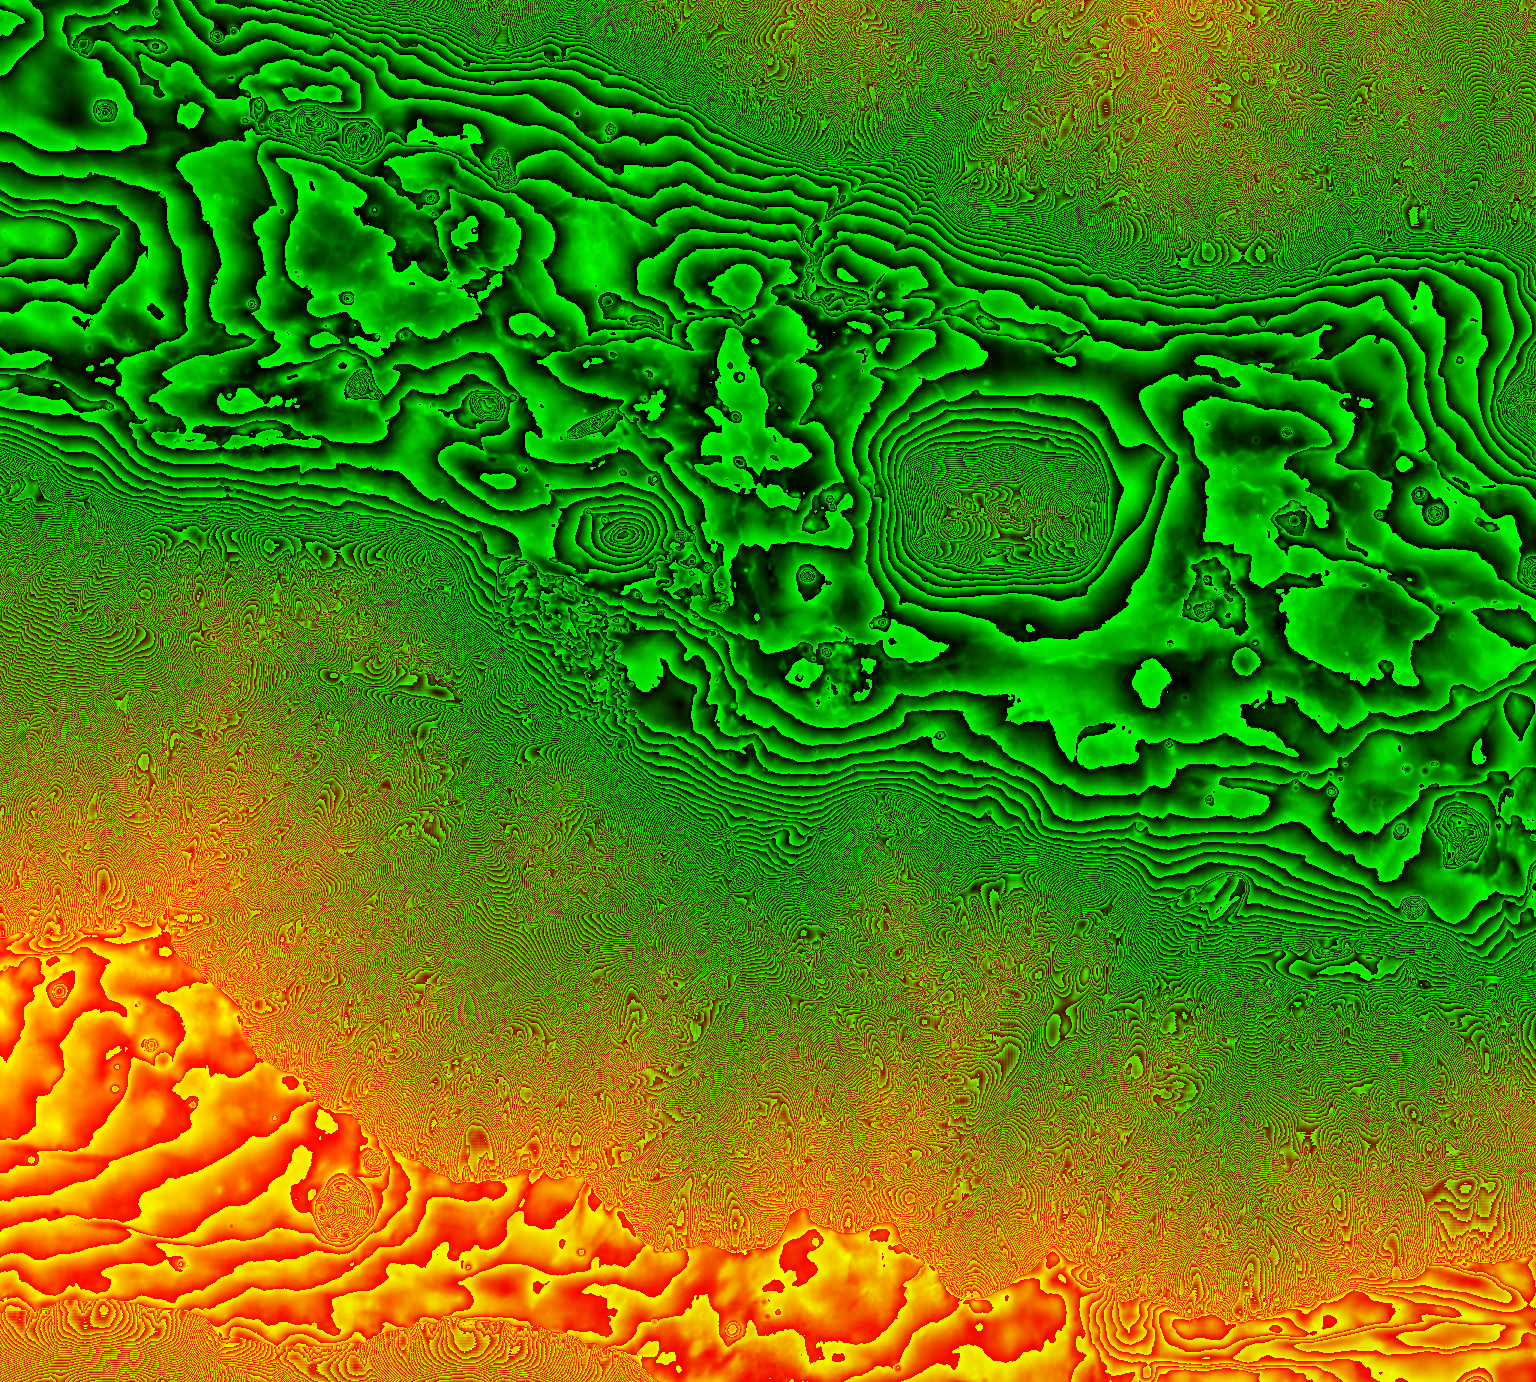
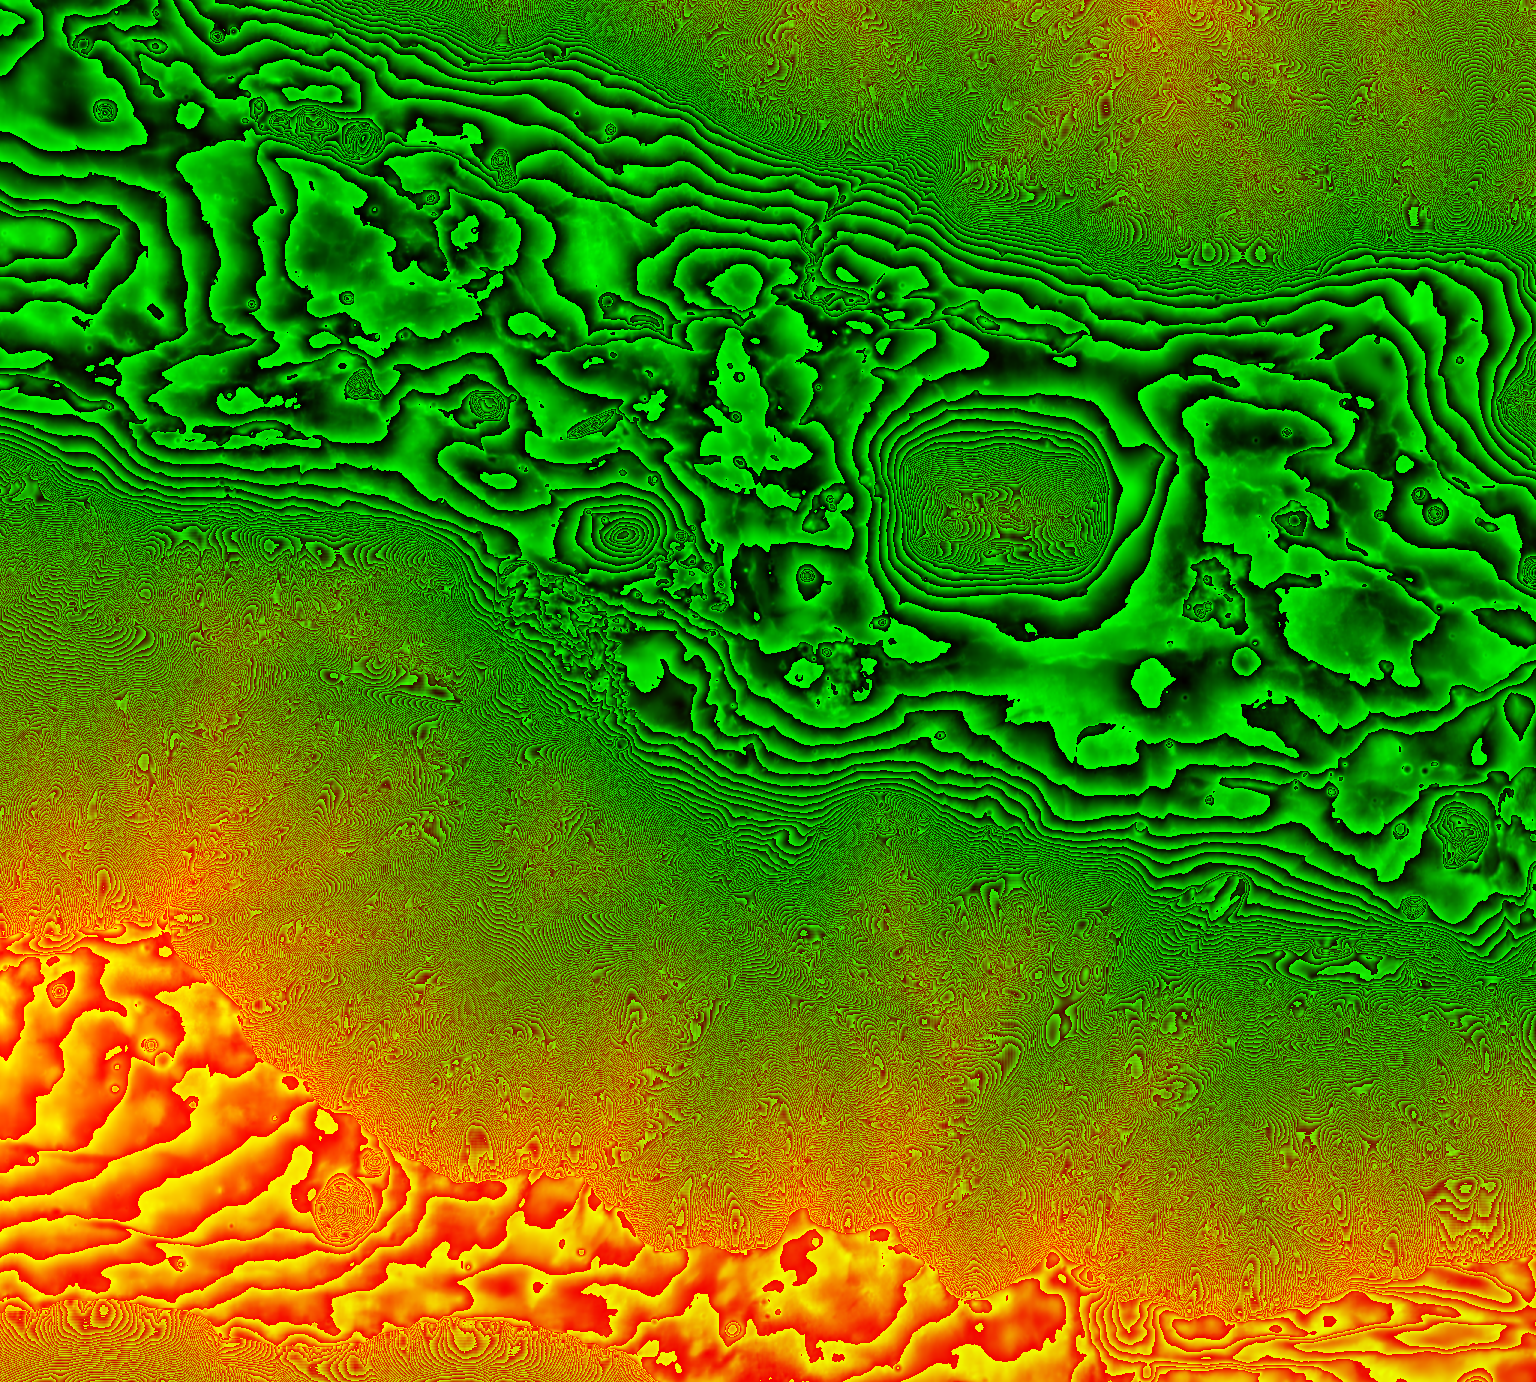
Add Ceraunius Tholus (MESA v3 release)

diff --git a/index.html b/index.html
@@ -402,7 +402,7 @@ const esc = (s) => String(s).replace(/[&<>"]/g, (c) => ({ '&': '&amp;', '<': '&l
 const fmtLat = (v) => `${Math.abs(v).toFixed(2)}°${v >= 0 ? 'N' : 'S'}`, fmtLon = (v) => `${Math.abs(v).toFixed(2)}°${v >= 0 ? 'E' : 'W'}`;
 // a standalone copy defines window.EMBED = {sites, tables, img: {path: dataURI}, viewer: {site: {file: dataURI}}}
 const EMBED = window.EMBED || null;
-const BUILD = '202611121152';                                   // set by build_site.py; new file addresses on every release
+const BUILD = '202611121159';                                   // set by build_site.py; new file addresses on every release
 const withV = (p) => (BUILD ? `${p}?v=${BUILD}` : p);
 const [SITES, T] = EMBED ? [EMBED.sites, EMBED.tables]
   : await Promise.all([fetch(withV('data/sites.json')).then((r) => r.json()), fetch(withV('data/tables.json')).then((r) => r.json())]);
